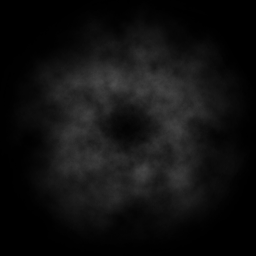
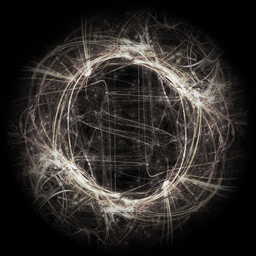
bug fixes and solar flares

diff --git a/src/KeplerApp.cpp b/src/KeplerApp.cpp
@@ -322,8 +322,8 @@ void KeplerApp::setup()
     console() << "G_IS_IPAD2: " << G_IS_IPAD2 << endl;
 
 	if( G_IS_IPAD2 ){
-		G_NUM_PARTICLES = 30;
-		G_NUM_DUSTS = 2500;
+		G_NUM_PARTICLES = 80;
+		G_NUM_DUSTS = 5000;
         mGyroHelper.setup();
 	}
 	
@@ -1627,10 +1627,8 @@ void KeplerApp::update()
 		if( selectedArtistNode ){
 			mParticleController.update( mCenter, selectedArtistNode->mRadius * 0.15f, bbRight, bbUp );
 			float per = selectedArtistNode->mEclipseStrength * 0.5f + 0.25f;
-			mParticleController.buildParticleVertexArray( scaleSlider * 5.0f, 
-														  selectedArtistNode->mColor, 
-														  ( sin( per * M_PI ) * sin( per * 0.25f ) * 0.75f ) + 0.25f );
-			mParticleController.buildDustVertexArray( scaleSlider, selectedArtistNode, mPinchAlphaPer, ( 1.0f - mCamRingAlpha ) * 0.15f * mFadeInArtistToAlbum );
+			mParticleController.buildParticleVertexArray( 5.0f, selectedArtistNode->mColor, ( sin( per * M_PI ) * sin( per * 0.25f ) * 0.75f ) + 0.25f );
+			mParticleController.buildDustVertexArray( scaleSlider, selectedArtistNode, mPinchAlphaPer, 0.1f );//( 1.0f - mCamRingAlpha ) * 0.15f * mFadeInArtistToAlbum );
 		}
 		        
         if (mPlayheadUpdateSeconds == elapsedSeconds) {
@@ -1682,7 +1680,9 @@ void KeplerApp::updateCamera()
 	mPinchPer = ( mPinchTotal - mPinchScaleMin )/( mPinchScaleMax - mPinchScaleMin );
 	mPinchHighlightRadius -= ( mPinchHighlightRadius - 200.0f ) * 0.4f;
 	
-	float cameraDistMulti = mPinchPer * 2.0f + 0.5f;
+	
+	// multiplier is how far back, and addition is how close in.
+	float cameraDistMulti = mPinchPer * 2.0f + 0.35f;
 	
 // IF THE PINCH IS PAST THE POP THRESHOLD...
 	if( mPinchPer > mPinchPerThresh ){
@@ -1782,7 +1782,7 @@ void KeplerApp::updateCamera()
 	}
 
 	float distToTravel = mState.getDistBetweenNodes();
-	double duration = 4.0f;
+	double duration = 2.5f;
 	if( distToTravel < 1.0f )		duration = 2.0;
 	else if( distToTravel < 5.0f )	duration = 2.75f;
     double t		= constrain( getElapsedSeconds()-mSelectionTime, 0.0, duration );
@@ -2003,16 +2003,23 @@ void KeplerApp::drawScene()
 // ORBITS
 	if( G_DRAW_RINGS ){
         mTextures[ORBIT_RING_GRADIENT_TEX].enableAndBind();
-        mWorld.drawOrbitRings( mPinchAlphaPer, sqrt( mCamRingAlpha ) );
+        mWorld.drawOrbitRings( mPinchAlphaPer, sqrt( mCamRingAlpha ), mFadeInAlphaToArtist, mFadeInArtistToAlbum );
         mTextures[ORBIT_RING_GRADIENT_TEX].disable();
 	}
 	
 // PARTICLES
 	if( artistNode ){
         mTextures[PARTICLE_TEX].enableAndBind();
-		mParticleController.drawParticleVertexArray( artistNode );
+		mParticleController.drawParticleVertexArray( artistNode, 0.175f );
         mTextures[PARTICLE_TEX].disable();
 	}
+//	Node *albumNode = mState.getSelectedAlbumNode();
+//	if( albumNode ){
+//		mTextures[PARTICLE_TEX].enableAndBind();
+//		mParticleController.drawParticleVertexArray( albumNode, 50.0f );
+//        mTextures[PARTICLE_TEX].disable();
+//	}
+	
 	
 // RINGS
 	if( artistNode ){
@@ -2027,7 +2034,7 @@ void KeplerApp::drawScene()
 	
 // DUSTS
 	if( artistNode && (G_IS_IPAD2 || G_DEBUG) ){
-		mParticleController.drawDustVertexArray( artistNode );
+		mParticleController.drawDustVertexArray( artistNode, 0.175f );
 	}
 	
 // PLAYHEAD PROGRESS

diff --git a/src/ParticleController.cpp b/src/ParticleController.cpp
@@ -66,9 +66,12 @@ void ParticleController::buildParticleVertexArray( float scaleOffset, Color c, f
 		float radius			= it->mRadius * ( 1.0f - it->mAgePer ) * scaleOffset;// * eclipseStrength;// * sin( it->mAgePer * M_PI );
 		float alpha				= constrain(it->mAgePer * eclipseStrength, 0.0f, 1.0f);
 		
-		Vec3f right				= mBbRight * radius;
-		Vec3f up				= mBbUp * radius;
-				
+//		Vec3f right				= mBbRight * radius * it->mQuat;
+//		Vec3f up				= mBbUp * radius * it->mQuat;
+
+		Vec3f right				= Vec3f::yAxis() * radius * it->mQuat;
+		Vec3f up				= Vec3f::xAxis() * radius * it->mQuat;
+		
 		Vec3f p1				= pos - right - up;
 		Vec3f p2				= pos + right - up;
 		Vec3f p3				= pos - right + up;
@@ -129,14 +132,14 @@ void ParticleController::buildDustVertexArray( float scaleOffset, Node *node, fl
     }
 
 	for( list<Dust>::iterator it = mDusts.begin(); it != mDusts.end(); ++it ){        
-		mDustVerts[vIndex].vertex = it->mPos * scaleOffset * 0.7f;
+		mDustVerts[vIndex].vertex = it->mPos; //0.7f
 		mDustVerts[vIndex].color = Vec4f(col.r, col.g, col.b, alpha * it->mAgePer);
         vIndex++;
 	}
 }
 	
 
-void ParticleController::drawParticleVertexArray( Node *node )
+void ParticleController::drawParticleVertexArray( Node *node, float multi )
 {
 	// PARTICLES
 	glEnableClientState( GL_VERTEX_ARRAY );
@@ -150,6 +153,8 @@ void ParticleController::drawParticleVertexArray( Node *node )
 	glPushMatrix();
 	if( node ){
 		gl::translate( node->mPos );
+		float radius = node->mRadius * multi + 0.007f;
+		gl::scale( Vec3f( radius, radius, radius ) );
 	}
 	glDrawArrays( GL_TRIANGLES, 0, mTotalParticleVertices );
 	glPopMatrix();
@@ -159,7 +164,7 @@ void ParticleController::drawParticleVertexArray( Node *node )
 	glDisableClientState( GL_COLOR_ARRAY );
 }
 
-void ParticleController::drawDustVertexArray( Node *node )
+void ParticleController::drawDustVertexArray( Node *node, float multi )
 {
 	// DUST
 	glEnableClientState( GL_VERTEX_ARRAY );
@@ -170,6 +175,8 @@ void ParticleController::drawDustVertexArray( Node *node )
 	glPushMatrix();
 	if( node ) {
 		gl::translate( node->mPos );
+		float radius = node->mRadius * multi + 0.007f;
+		gl::scale( Vec3f( radius, radius, radius ) );
     }
 	glDrawArrays( GL_POINTS, 0, mTotalDustVertices );
 	glPopMatrix();

diff --git a/src/NodeAlbum.cpp b/src/NodeAlbum.cpp
@@ -438,10 +438,11 @@ void NodeAlbum::drawAtmosphere( const Vec3f &camEye, const Vec2f &center, const 
 		float alpha = ( 1.0f - mScreenDistToCenterPer * 0.75f ) + mEclipseStrength;
 		alpha *= mDeathPer * mClosenessFadeAlpha * ( mBlockedBySunPer - 0.5f ) * 2.0f;
 		Vec2f radius( mRadius, mRadius );
-		radius *= ( 2.42f + scaleSliderOffset + max( ( mSphereScreenRadius - 160.0f ) * 0.001f, 0.0f ) );
+		radius *= ( 2.42f + scaleSliderOffset + max( ( mSphereScreenRadius - 160.0f ) * 0.001f, 0.0f ) ) * mDeathPer;
 		
+
 		if( mIsHighlighted ){
-			gl::color( ColorA( BRIGHT_BLUE, 1.0f + mEclipseStrength * 2.0f ) );
+			gl::color( ColorA( BRIGHT_BLUE, ( 1.0f + mEclipseStrength * 2.0f ) * mClosenessFadeAlpha ) );
 			tex.enableAndBind();
 			bloom::gl::drawSphericalBillboard( camEye, mPos, radius, 0.0f );
 			tex.disable();
@@ -458,7 +459,7 @@ void NodeAlbum::drawAtmosphere( const Vec3f &camEye, const Vec2f &center, const 
 }
 
 
-void NodeAlbum::drawOrbitRing( float pinchAlphaPer, float camAlpha, const OrbitRing &orbitRing )
+void NodeAlbum::drawOrbitRing( float pinchAlphaPer, float camAlpha, const OrbitRing &orbitRing, float fadeInAlphaToArtist, float fadeInArtistToAlbum )
 {		
 	float newPinchAlphaPer = pinchAlphaPer;
 	if( G_ZOOM < G_ALBUM_LEVEL - 0.5f ){
@@ -468,12 +469,12 @@ void NodeAlbum::drawOrbitRing( float pinchAlphaPer, float camAlpha, const OrbitR
 	}
 	
 	if( mIsPlaying ){
-		gl::color( ColorA( BRIGHT_BLUE, 0.5f * camAlpha * mDeathPer ) );
+		gl::color( ColorA( BRIGHT_BLUE, 0.5f * camAlpha * fadeInAlphaToArtist ) );
 	} else {
 		if( mIsHighlighted ){
-			gl::color( ColorA( BLUE, 0.5f * camAlpha * mDeathPer ) );
+			gl::color( ColorA( BLUE, 0.5f * camAlpha * fadeInAlphaToArtist ) );
 		} else {
-			gl::color( ColorA( BLUE, 0.5f * camAlpha * mDeathPer * 0.3f ) );
+			gl::color( ColorA( BLUE, 0.5f * camAlpha * fadeInAlphaToArtist * 0.3f ) );
 		}
 	}
 	
@@ -484,7 +485,7 @@ void NodeAlbum::drawOrbitRing( float pinchAlphaPer, float camAlpha, const OrbitR
     orbitRing.drawHighRes();
 	glPopMatrix();
 	
-	Node::drawOrbitRing( pinchAlphaPer, camAlpha, orbitRing );
+	Node::drawOrbitRing( pinchAlphaPer, camAlpha, orbitRing, fadeInAlphaToArtist, fadeInArtistToAlbum );
 }
 
 

diff --git a/src/Particle.cpp b/src/Particle.cpp
@@ -19,29 +19,30 @@ Particle::Particle( int index, Vec3f pos, Vec3f vel, const Vec3f &bbRight, const
 	mAngle			= Rand::randFloat( 6.2832f );
 	mCosAngle		= (float)cos( mAngle );
 	mSinAngle		= (float)sin( mAngle );
-	
 	setup( bbRight, bbUp );
 }
 
 void Particle::setup( const Vec3f &bbRight, const Vec3f &bbUp )
 {
 	mLifespan       = pow( Rand::randFloat( 0.5f, 1.0f ), 2.0f );
-	mLifespan		*= 450.0f;
+	mLifespan		*= Rand::randFloat( 100.0f, 400.0f );
 	
-	mRadius		= Rand::randFloat( 0.2f, 0.3f );
-	mPos		= ( bbRight * mCosAngle + bbUp * mSinAngle );
-	mPrevPos	= mPos;
-	mVel		= mPos * ( Rand::randFloat( 0.0075f, 0.0175f ) * ( mRadius/5.0f ) );
+	mRadius		= Rand::randFloat( 0.05f, 0.1f );
+	if( Rand::randFloat() < 0.01f )
+		mRadius *= 4.0f;
+	mPos		= Rand::randVec3f();//( bbRight * mCosAngle + bbUp * mSinAngle );
+	mVel		= mPos * ( Rand::randFloat( 0.0075f, 0.02f ) * ( mRadius/5.0f ) );
 	mAcc		= Rand::randVec3f() * 0.01f;
 	mAge		= 0;
 	mAgePer		= 0.0f;
+	mQuat		= Quatf( mPos, Rand::randFloat( M_PI * 2.0f ) );
 	
 }
 
 void Particle::update( float radius, const Vec3f &bbRight, const Vec3f &bbUp )
 {
 	mAgePer		= 1.0f - (float)mAge/(float)mLifespan;
-	mPos		= ( bbRight * mCosAngle + bbUp * mSinAngle ) * ( radius + mAge * 0.00015f );
+//	mPos		= ( bbRight * mCosAngle + bbUp * mSinAngle ) * ( radius + mAge * 0.00015f );
 	//mPrevPos	= mPos;
    // mPos += mVel;
     mAge ++;
@@ -50,7 +51,3 @@ void Particle::update( float radius, const Vec3f &bbRight, const Vec3f &bbUp )
     }
 }
 
-void Particle::draw()
-{
-    gl::drawLine( mPos, mPrevPos );
-}

diff --git a/src/NodeTrack.cpp b/src/NodeTrack.cpp
@@ -532,7 +532,7 @@ void NodeTrack::drawAtmosphere( const Vec3f &camEye, const Vec2f &center, const 
 	if( mClosenessFadeAlpha > 0.0f ){
 		float alpha = mNormPlayCount * mDeathPer * mClosenessFadeAlpha;
 		Vec2f radius( mRadius, mRadius );
-		radius *= ( 2.435f + scaleSliderOffset + max( ( mSphereScreenRadius - 175.0f ) * 0.001f, 0.0f ) );
+		radius *= ( 2.435f + scaleSliderOffset + max( ( mSphereScreenRadius - 175.0f ) * 0.001f, 0.0f ) ) * mDeathPer;
 
 		if( mIsHighlighted ){
 			gl::color( ColorA( BRIGHT_BLUE, alpha ) );
@@ -552,7 +552,7 @@ void NodeTrack::drawAtmosphere( const Vec3f &camEye, const Vec2f &center, const 
 
 
 
-void NodeTrack::drawOrbitRing( float pinchAlphaPer, float camAlpha, const OrbitRing &orbitRing )
+void NodeTrack::drawOrbitRing( float pinchAlphaPer, float camAlpha, const OrbitRing &orbitRing, float fadeInAlphaToArtist, float fadeInArtistToAlbum )
 {	
 	float newPinchAlphaPer = pinchAlphaPer;
 	if( G_ZOOM < G_TRACK_LEVEL - 0.5f ){
@@ -562,9 +562,9 @@ void NodeTrack::drawOrbitRing( float pinchAlphaPer, float camAlpha, const OrbitR
 	}
 	
 	if( mIsHighlighted ){
-		gl::color( ColorA( BLUE, camAlpha * mDeathPer ) );		
+		gl::color( ColorA( BLUE, camAlpha * fadeInArtistToAlbum ) );		
 	} else {
-		gl::color( ColorA( BLUE, camAlpha * mDeathPer * 0.3f ) );
+		gl::color( ColorA( BLUE, camAlpha * fadeInArtistToAlbum * 0.3f ) );
 	}
 	
 	glPushMatrix();

diff --git a/src/NodeArtist.cpp b/src/NodeArtist.cpp
@@ -144,7 +144,7 @@ void NodeArtist::drawStarGlow( const Vec3f &camEye, const Vec3f &camNormal, cons
 	gl::color( ColorA( c.r, c.g, c.b, alpha ) );
 	
 	tex.enableAndBind();
-	bloom::gl::drawSphericalRotatedBillboard( mPos, camEye, mPos + camNormal, radius * sin( ( mEclipseStrength * 0.75f + 0.25f ) * M_PI ) * sin( mEclipseStrength * 1.0f + 0.4f ) );
+	bloom::gl::drawSphericalRotatedBillboard( mPos, camEye, Vec3f::zero(), radius * sin( ( mEclipseStrength * 0.75f + 0.25f ) * M_PI ) * sin( mEclipseStrength * 1.0f + 0.4f ) );
 	tex.disable();
 }
 
@@ -237,7 +237,7 @@ void NodeArtist::drawExtraGlow( const Vec3f &camEye, const gl::Texture &texGlow,
 		texGlow.enableAndBind();
 		alpha = sin( ( mEclipseStrength * 0.75f + 0.25f ) * M_PI ) * sin( mEclipseStrength * 0.4f + 0.2f );
 		gl::color( ColorA( Color::white(), alpha ) );
-		bloom::gl::drawSphericalRotatedBillboard( mPos, camEye, mPos + Rand::randVec3f(), radius * sin( ( mEclipseStrength * 0.75f + 0.25f ) * M_PI ) * sin( mEclipseStrength * 1.0f + 0.4f ) );
+		bloom::gl::drawSphericalRotatedBillboard( mPos, camEye, Vec3f::zero(), radius * sin( ( mEclipseStrength * 0.75f + 0.25f ) * M_PI ) * sin( mEclipseStrength * 1.0f + 0.4f ) );
 		texGlow.disable();
 	}
 	//}

diff --git a/src/Galaxy.cpp b/src/Galaxy.cpp
@@ -102,19 +102,19 @@ void Galaxy::drawSpiralPlanes( float rotMulti )
 		
 		if( G_IS_IPAD2 ){
 			gl::translate( Vec3f( 0.0f, 3.5f, 0.0f ) );
-			gl::rotate( Vec3f( 0.0f, mElapsedSeconds * -4.0f * rotMulti, 0.0f ) );
+			gl::rotate( Vec3f( 0.0f, mElapsedSeconds * -4.0f, 0.0f ) );
 			glDrawArrays( GL_TRIANGLES, 0, 6 );
 			
 			gl::translate( Vec3f( 0.0f, -7.0f, 0.0f ) );
-			gl::rotate( Vec3f( 0.0f, mElapsedSeconds * -2.0f * rotMulti, 0.0f ) );
+			gl::rotate( Vec3f( 0.0f, mElapsedSeconds * -2.0f, 0.0f ) );
 			glDrawArrays( GL_TRIANGLES, 0, 6 );
 			
 			gl::translate( Vec3f( 0.0f, 3.5f, 0.0f ) );
 			gl::scale( Vec3f( 0.5f, 0.5f, 0.5f ) );
-			gl::rotate( Vec3f( 0.0f, mElapsedSeconds * -15.0f * rotMulti, 0.0f ) );
+			gl::rotate( Vec3f( 0.0f, mElapsedSeconds * -15.0f, 0.0f ) );
 			glDrawArrays( GL_TRIANGLES, 0, 6 );
 		} else {
-			gl::rotate( Vec3f( 0.0f, mElapsedSeconds * -4.0f * rotMulti, 0.0f ) );
+			gl::rotate( Vec3f( 0.0f, mElapsedSeconds * -4.0f, 0.0f ) );
 			glDrawArrays( GL_TRIANGLES, 0, 6 );
 		}
 		

diff --git a/src/Node.cpp b/src/Node.cpp
@@ -169,6 +169,7 @@ void Node::update( float param1, float param2 )
 	mClosenessFadeAlpha = constrain( ( mDistFromCamZAxis - mRadius ) * mInvRadius, 0.0f, 1.0f );
 	
 	mOrbitRadius	-= ( mOrbitRadius - mOrbitRadiusDest ) * 0.1f;
+//	mOrbitRadius	= mOrbitRadiusDest;
     
 	mSphere.setCenter( mPos );
 
@@ -245,10 +246,10 @@ void Node::drawRings( const gl::Texture &tex, const PlanetRing &planetRing, floa
 	}
 }
 
-void Node::drawOrbitRing( float pinchAlphaOffset, float camAlpha, const OrbitRing &orbitRing )
+void Node::drawOrbitRing( float pinchAlphaOffset, float camAlpha, const OrbitRing &orbitRing, float fadeInAlphaToArtist, float fadeInArtistToAlbum )
 {
     BOOST_FOREACH(Node* node, mChildNodes) {
-		node->drawOrbitRing( pinchAlphaOffset, camAlpha, orbitRing );
+		node->drawOrbitRing( pinchAlphaOffset, camAlpha, orbitRing, fadeInAlphaToArtist, fadeInArtistToAlbum );
 	}
 }
 

diff --git a/src/Node.h b/src/Node.h
@@ -53,7 +53,7 @@ class Node {
 	virtual void	drawAtmosphere( const ci::Vec3f &camEye, const ci::Vec2f &center, const ci::gl::Texture &tex, const ci::gl::Texture &directionalTex, float pinchAlphaPer, float scaleSliderOffset ) {};
 	virtual void	drawRings( const ci::gl::Texture &tex, const PlanetRing &planetRing, float camZPos );
 	virtual void	findShadows( float camAlpha ) {};
-	virtual void	drawOrbitRing( float pinchAlphaOffset, float camAlpha, const OrbitRing &orbitRing );
+	virtual void	drawOrbitRing( float pinchAlphaOffset, float camAlpha, const OrbitRing &orbitRing, float fadeInAlphaToArtist, float fadeInArtistToAlbum );
 
 	void			drawName( const ci::CameraPersp &cam, float pinchAlphaOffset, float angle );
 	void			wasTapped(){ mIsTapped = true; mHighlightStrength = 1.0f; }

diff --git a/src/NodeAlbum.h b/src/NodeAlbum.h
@@ -26,7 +26,7 @@ class NodeAlbum : public Node
 	void drawClouds( const std::vector< ci::gl::Texture> &clouds );
 	void drawRings( const ci::gl::Texture &tex, const PlanetRing &planetRing, float camZPos );
 	void drawAtmosphere( const ci::Vec3f &camEye, const ci::Vec2f &center, const ci::gl::Texture &tex, const ci::gl::Texture &directionalTex, float pinchAlphaPer, float scaleSliderOffset );
-	void drawOrbitRing( float pinchAlphaOffset, float camAlpha, const OrbitRing &orbitRing );
+	void drawOrbitRing( float pinchAlphaOffset, float camAlpha, const OrbitRing &orbitRing, float fadeInAlphaToArtist, float fadeInArtistToAlbum );
 	void findShadows( float camAlpha );
     void buildShadowVertexArray( ci::Vec3f p1, ci::Vec3f p2, ci::Vec3f p3, ci::Vec3f p4 );
 	void select();

diff --git a/src/NodeTrack.h b/src/NodeTrack.h
@@ -33,7 +33,7 @@ class NodeTrack : public Node
 	void drawEclipseGlow();
 	void drawPlanet( const ci::gl::Texture &tex );
 	void drawClouds( const std::vector< ci::gl::Texture> &clouds );
-	void drawOrbitRing( float pinchAlphaOffset, float camAlpha, const OrbitRing &orbitRing );
+	void drawOrbitRing( float pinchAlphaOffset, float camAlpha, const OrbitRing &orbitRing, float fadeInAlphaToArtist, float fadeInArtistToAlbum );
 	void buildPlayheadProgressVertexArray();
 	void drawPlayheadProgress( float pinchAlphaPer, float camAlpha, float pauseAlpha, const ci::gl::Texture &tex, const ci::gl::Texture &originTex );
 //	void drawAtmosphere( const ci::Vec2f &center, const ci::gl::Texture &tex, const ci::gl::Texture &directionalTex, float pinchAlphaPer );

diff --git a/src/Particle.h b/src/Particle.h
@@ -2,6 +2,7 @@
 #include "cinder/Vector.h"
 #include "cinder/Color.h"
 #include "Node.h"
+#include "cinder/Quaternion.h"
 #include <vector>
 
 class Particle {
@@ -10,10 +11,9 @@ class Particle {
 	Particle( int index, ci::Vec3f pos, ci::Vec3f vel, const ci::Vec3f &bbRight, const ci::Vec3f &bbUp );
 	void setup( const ci::Vec3f &bbRight, const ci::Vec3f &bbUp );
 	void update( float radius, const ci::Vec3f &bbRight, const ci::Vec3f &bbUp );
-	void draw();
 	
 	int			mIndex;
-	ci::Vec3f	mPos, mPrevPos;
+	ci::Vec3f	mPos;
 	ci::Vec3f	mVel;
 	ci::Vec3f	mAcc;
 
@@ -26,4 +26,5 @@ class Particle {
 	float         mLifespan;
 	float		mAgePer;
 	bool		mIsDead;
+	ci::Quatf	mQuat;
 };
